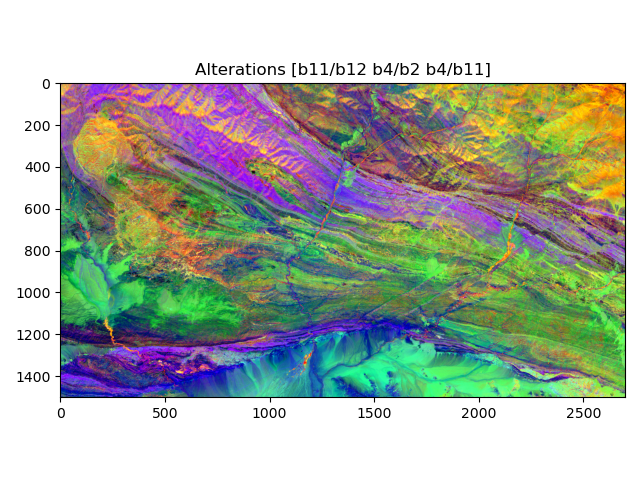
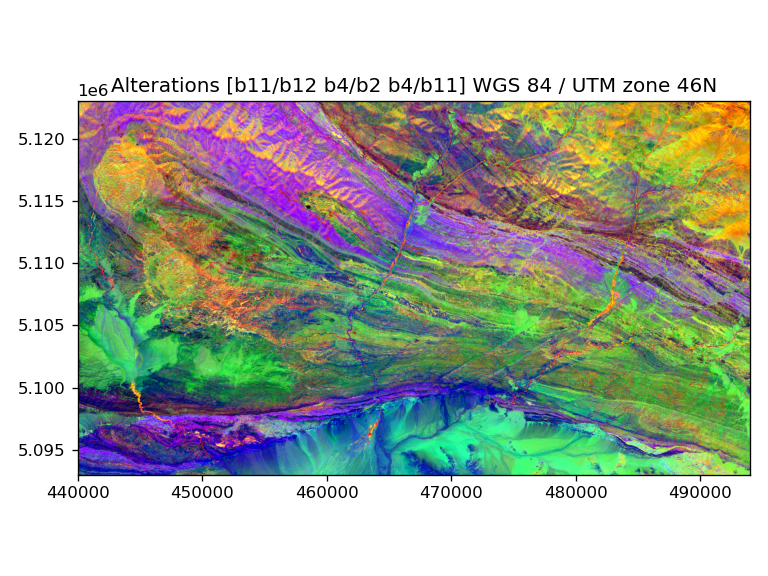
matplotlib images using projection coordinates

diff --git a/src/s2lx/s2classes.py b/src/s2lx/s2classes.py
@@ -99,23 +99,34 @@ class SAFE:
 
         Keyword Args:
             figsize (tuple): matplotlib Figure size
+            filename(str): if not None, the plot is save to file.
+                Default None
+            dpi (int): DPI for save image. Default 300
 
         """
         sds = gdal.Open(self.datasets["TCI"]["xml"])
-        tci = np.dstack(
-            (
-                sds.GetRasterBand(self.datasets["TCI"]["bands"]["B4"]["n"]).ReadAsArray(),
-                sds.GetRasterBand(self.datasets["TCI"]["bands"]["B3"]["n"]).ReadAsArray(),
-                sds.GetRasterBand(self.datasets["TCI"]["bands"]["B2"]["n"]).ReadAsArray(),
-            )
-        )
+        r = sds.GetRasterBand(self.datasets["TCI"]["bands"]["B4"]["n"]).ReadAsArray()
+        g = sds.GetRasterBand(self.datasets["TCI"]["bands"]["B3"]["n"]).ReadAsArray()
+        b = sds.GetRasterBand(self.datasets["TCI"]["bands"]["B2"]["n"]).ReadAsArray()
+        tci = np.dstack((r, g, b))
+        transform=sds.GetGeoTransform()
+        projection=sds.GetProjection()
         figsize = kwargs.get("figsize", plt.rcParams["figure.figsize"])
         # plot
         f, ax = plt.subplots(figsize=figsize)
-        ax.imshow(tci)
-        ax.set_title(self.meta["PRODUCT_URI"].split('_')[5])
+        extent = (
+            transform[0],
+            transform[0] + r.shape[1]*transform[1],
+            transform[3] + r.shape[0]*transform[5],
+            transform[3]
+            )
+        ax.imshow(tci, extent=extent)
+        ax.set_title(f"{self.meta['PRODUCT_URI'].split('_')[5]} {pyproj.CRS(projection).name}")
         ax.set_aspect(1)
+        filename = kwargs.get('filename', None)
         f.tight_layout()
+        if filename is not None:
+            f.savefig(filename, dpi=kwargs.get('dpi', 300))
         plt.show()
 
     @property
@@ -1058,6 +1069,9 @@ class Band:
 
         Keyword Args:
             figsize (tuple): figure size. Default is matplotlib defaults
+            filename(str): if not None, the plot is save to file.
+                Default None
+            dpi (int): DPI for save image. Default 300
             cmap: matplotlib color map. Default 'cividis'
             under (color): color used for values under vmin. Default cmap(0)
             over (color): color used for values above vmax. Default cmap(1)
@@ -1071,13 +1085,22 @@ class Band:
         cmap.set_bad(kwargs.get("masked", "white"))
         # plot
         f, ax = plt.subplots(figsize=figsize)
-        img = ax.imshow(self.array, cmap=cmap, norm=self.norm)
-        ax.set_title(f"{self.name}")
+        extent = (
+            self.transform[0],
+            self.transform[0] + self.shape[1]*self.transform[1],
+            self.transform[3] + self.shape[0]*self.transform[5],
+            self.transform[3]
+            )
+        img = ax.imshow(self.array, cmap=cmap, norm=self.norm, extent=extent)
+        ax.set_title(f"{self.name} {pyproj.CRS(self.projection).name}")
         divider = make_axes_locatable(ax)
         cax = divider.append_axes("right", size="5%", pad=0.05)
         f.colorbar(img, cax=cax, extend="both")
         ax.set_aspect(1)
+        filename = kwargs.get('filename', None)
         f.tight_layout()
+        if filename is not None:
+            f.savefig(filename, dpi=kwargs.get('dpi', 300))
         plt.show()
 
     def save(self, filename):
@@ -1153,16 +1176,28 @@ class Composite:
 
         Keyword Args:
             figsize (tuple): figure size. Default is matplotlib defaults
+            filename(str): if not None, the plot is save to file.
+                Default None
+            dpi (int): DPI for save image. Default 300
 
         """
         figsize = kwargs.get("figsize", plt.rcParams["figure.figsize"])
         rgb = np.dstack((self.r.normalized, self.g.normalized, self.b.normalized))
         # plot
         f, ax = plt.subplots(figsize=figsize)
-        ax.imshow(rgb)
-        ax.set_title(f"{self.name} [{self.r.name} {self.g.name} {self.b.name}]")
+        extent = (
+            self.transform[0],
+            self.transform[0] + self.shape[1]*self.transform[1],
+            self.transform[3] + self.shape[0]*self.transform[5],
+            self.transform[3]
+            )
+        ax.imshow(rgb, extent=extent)
+        ax.set_title(f"{self.name} [{self.r.name} {self.g.name} {self.b.name}] {pyproj.CRS(self.projection).name}")
         ax.set_aspect(1)
+        filename = kwargs.get('filename', None)
         f.tight_layout()
+        if filename is not None:
+            f.savefig(filename, dpi=kwargs.get('dpi', 300))
         plt.show()
 
     def save(self, filename):

diff --git a/CHANGELOG.md b/CHANGELOG.md
@@ -3,3 +3,4 @@ All notable s2lx changes.
 
 ## [0.1.0] - master
  - initial version
+ - coordinates on figures are in band projection
